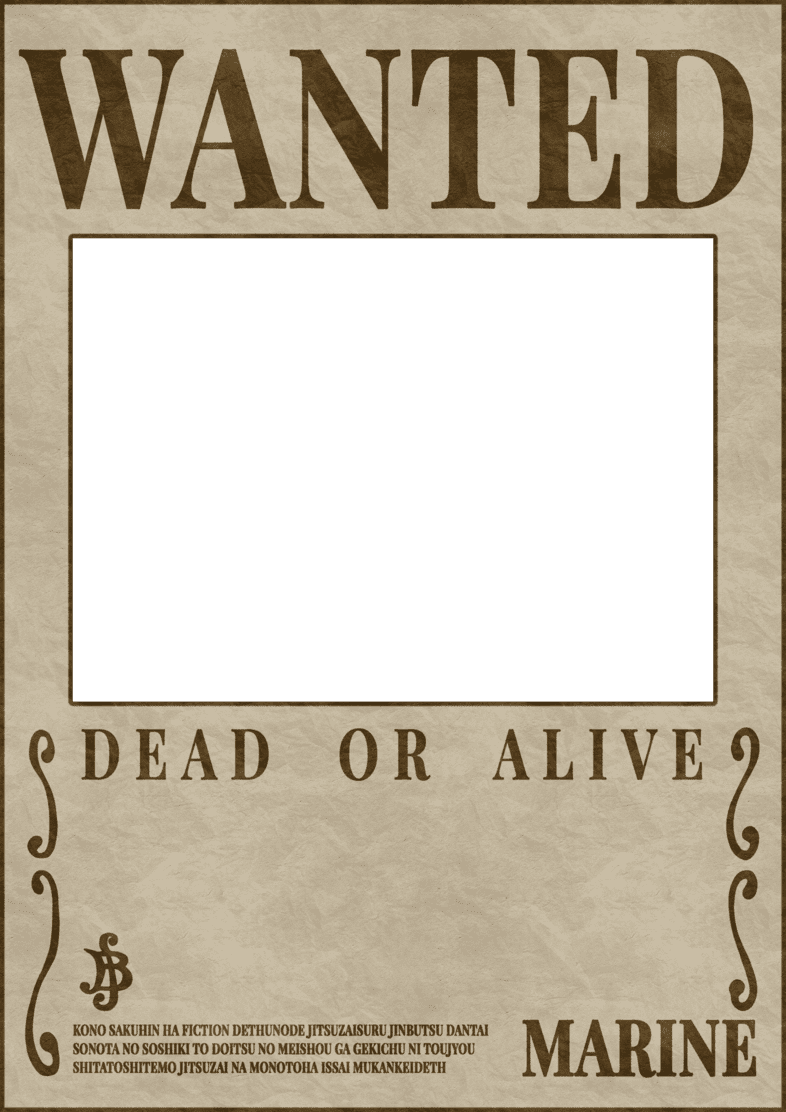
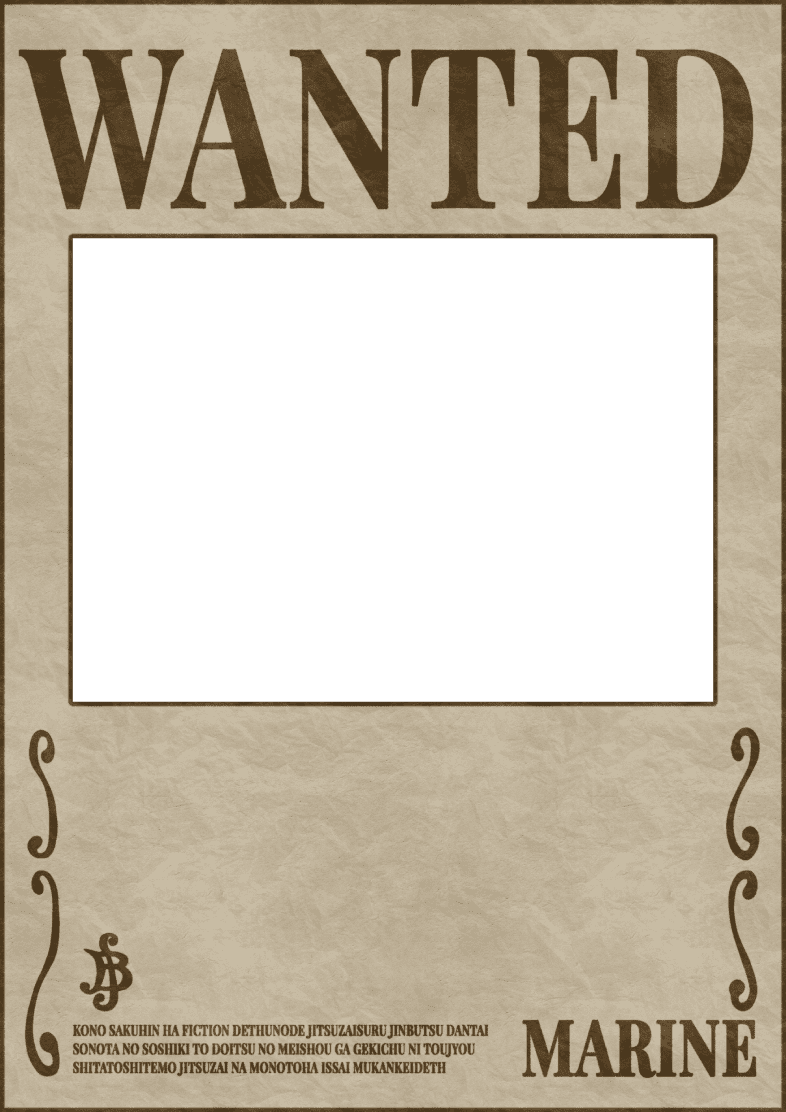
ref: Added capture condition - Dead or Alive, Only Dead, Only Alive

Changed region(s): [[0.6107, 0.6421, 0.916, 0.7032], [0.0916, 0.6421, 0.3664, 0.7032], [0.4275, 0.6421, 0.5496, 0.7032]]

diff --git a/src/wantedposter/wantedposter.py b/src/wantedposter/wantedposter.py
@@ -18,6 +18,12 @@ BOUNTY_POSTER_PORTRAIT_BOX_START_X = 73
 BOUNTY_POSTER_PORTRAIT_BOX_W = 640
 BOUNTY_POSTER_PORTRAIT_TEXTURE_PATH = os.path.join(BOUNTY_POSTER_ASSETS_PATH, 'image_components',
                                                    'texture_portrait.jpg')
+BOUNTY_POSTER_CAPTURE_CONDITION_DEAD_OR_ALIVE_PATH = os.path.join(BOUNTY_POSTER_ASSETS_PATH, 'image_components',
+                                                                  'dead_or_alive.jpg')
+BOUNTY_POSTER_CAPTURE_CONDITION_ONLY_DEAD_PATH = os.path.join(BOUNTY_POSTER_ASSETS_PATH, 'image_components',
+                                                              'only_dead.jpg')
+BOUNTY_POSTER_CAPTURE_CONDITION_ONLY_ALIVE_PATH = os.path.join(BOUNTY_POSTER_ASSETS_PATH, 'image_components',
+                                                               'only_alive.jpg')
 BOUNTY_POSTER_NAME_FONT_SIZE = 150
 BOUNTY_POSTER_NAME_MAX_W = 595
 BOUNTY_POSTER_NAME_H = 109
@@ -41,6 +47,8 @@ BOUNTY_POSTER_BELLY_TEXTURE_PATH = os.path.join(BOUNTY_POSTER_ASSETS_PATH, 'imag
 BOUNTY_POSTER_BELLY_FONT_PATH = os.path.join(BOUNTY_POSTER_ASSETS_PATH, 'fonts', 'Lilly__.ttf')
 BOUNTY_POSTER_COMPONENT_NAME = 1
 BOUNTY_POSTER_COMPONENT_BELLY = 2
+BOUNTY_POSTER_CAPTURE_CONDITION_START_X = 0
+BOUNTY_POSTER_CAPTURE_CONDITION_START_Y = 724
 
 
 class HorizontalAlignment(Enum):
@@ -53,6 +61,12 @@ class VerticalAlignment(Enum):
     TOP = 'top'
     CENTER = 'center'
     BOTTOM = 'bottom'
+
+
+class CaptureCondition(Enum):
+    DEAD_OR_ALIVE = 'dead_or_alive'
+    ONLY_DEAD = 'only_dead'
+    ONLY_ALIVE = 'only_alive'
 
 
 class WantedPoster:
@@ -78,7 +92,8 @@ class WantedPoster:
                  should_make_portrait_transparent: bool = False,
                  portrait_transparency_value: int = 200,
                  full_name_max_length: Union[int, None] = BOUNTY_POSTER_NAME_OPTIMAL_MAX_LENGTH,
-                 use_space_sub: bool = True) -> str:
+                 use_space_sub: bool = True,
+                 capture_condition: CaptureCondition = CaptureCondition.DEAD_OR_ALIVE) -> str:
         """
         Generates a wanted poster and saves it to the specified path
         :param output_poster_path: The path to the output poster. If None, a temporary file will be created
@@ -88,6 +103,7 @@ class WantedPoster:
         :param portrait_transparency_value: The transparency value of the portrait (0-255). Higher = less transparent
         :param full_name_max_length: The maximum length of the full name. If None, no limit
         :param use_space_sub: Whether to use the space substitution character (•) if the name is too long or D. in name
+        :param capture_condition: The capture condition to display on the poster
         :return: The path to the generated poster
         """
 
@@ -95,13 +111,21 @@ class WantedPoster:
         if output_poster_path is None:
             output_poster_path = uuid.uuid4().hex + '.jpg'
 
-        # Set portrait image
+        # Get portrait image
         if self.portrait is None:
             portrait = BOUNTY_POSTER_NO_PHOTO_PATH
             portrait_vertical_align = VerticalAlignment.CENTER
             portrait_horizontal_align = HorizontalAlignment.CENTER
         else:
             portrait = self.portrait
+
+        # Get capture condition image
+        if capture_condition is CaptureCondition.ONLY_DEAD:
+            capture_condition_image_path = BOUNTY_POSTER_CAPTURE_CONDITION_ONLY_DEAD_PATH
+        elif capture_condition is CaptureCondition.ONLY_ALIVE:
+            capture_condition_image_path = BOUNTY_POSTER_CAPTURE_CONDITION_ONLY_ALIVE_PATH
+        else:
+            capture_condition_image_path = BOUNTY_POSTER_CAPTURE_CONDITION_DEAD_OR_ALIVE_PATH
 
         # Open poster template
         poster_template = Image.open(BOUNTY_POSTER_TEMPLATE_PATH).convert("RGBA")
@@ -130,8 +154,13 @@ class WantedPoster:
             mask = None
         new_image.paste(portrait, (portrait_coordinate_x, portrait_coordinate_y), mask)
 
-        # Paste poster template into the new image
+        # Paste poster template onto the new image
         new_image.paste(poster_template, (0, 0), mask=poster_template)
+
+        # Add capture condition component
+        capture_condition_image = Image.open(capture_condition_image_path)
+        new_image.paste(capture_condition_image, (BOUNTY_POSTER_CAPTURE_CONDITION_START_X,
+                                                  BOUNTY_POSTER_CAPTURE_CONDITION_START_Y))
 
         # Add name component
         full_name = self.__get_bounty_poster_name(full_name_max_length, use_space_sub)
